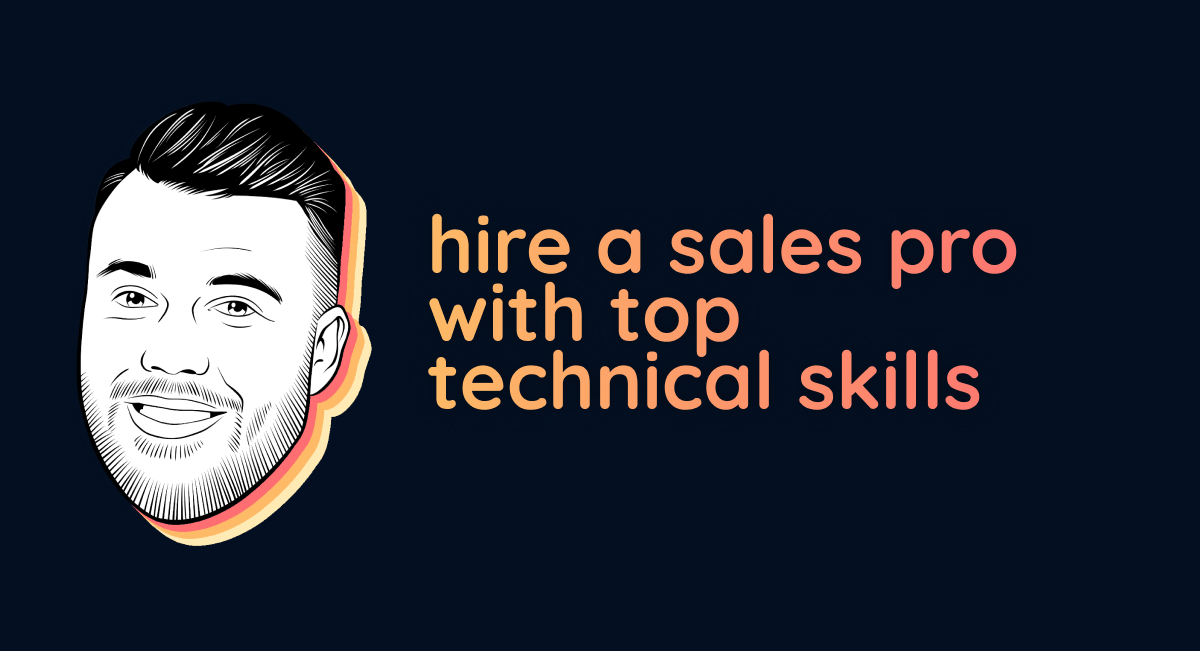
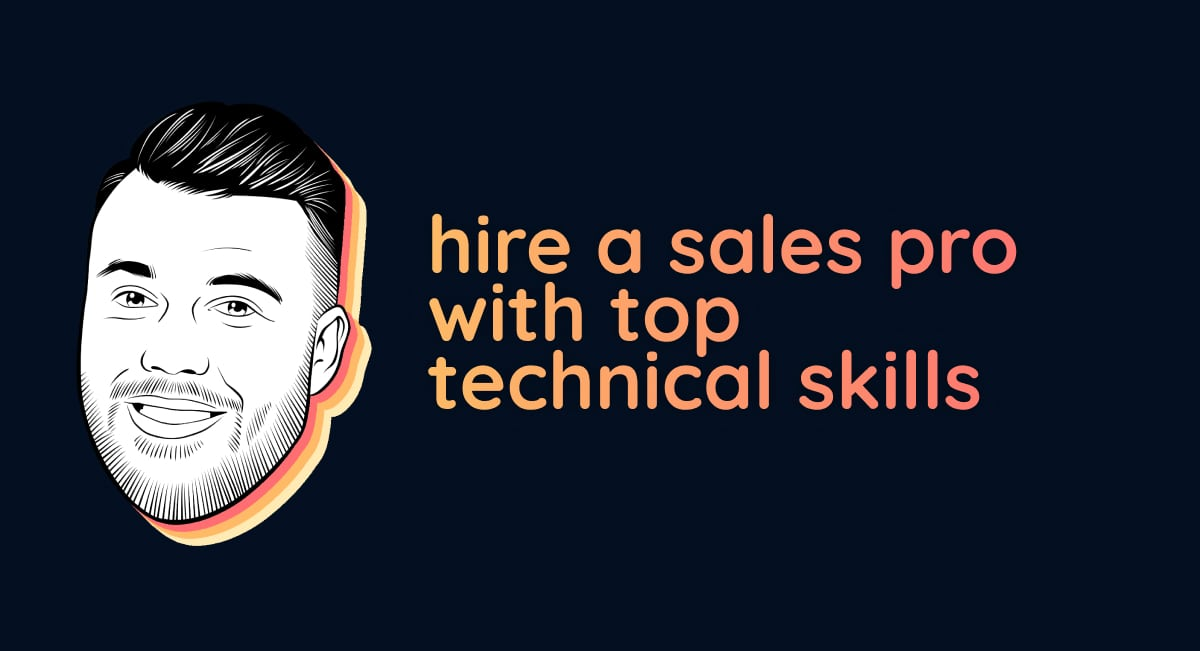
Update metadata + optimise og jpg

diff --git a/index.html b/index.html
@@ -4,11 +4,11 @@
     <meta charset="UTF-8" />
     <meta
       property="og:image"
-      content="https://samhemingway.dev/assets/images/og.jpg"
+      content="https://samsales.pro/assets/images/og.jpg"
     />
     <meta
       property="og:title"
-      content="Sam Hemingway - Frontend Developer"
+      content="Sam Hemingway - SaaS Sales Pro"
     />
     <meta
       property="og:description"
